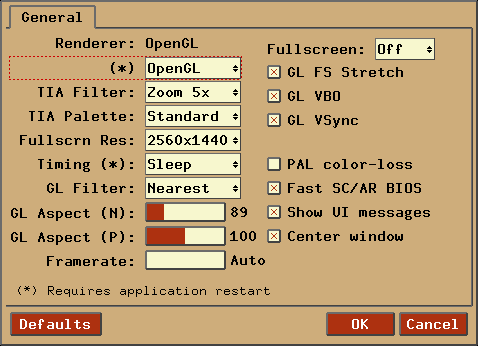
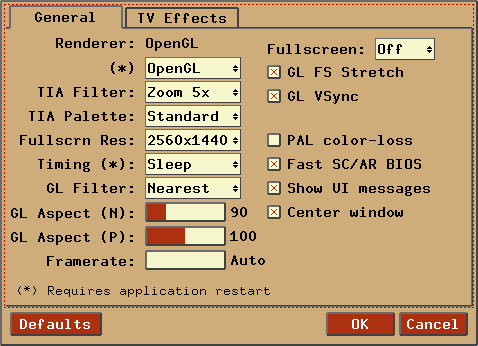
More documentation updates.

diff --git a/docs/index.html b/docs/index.html
@@ -274,7 +274,7 @@
       AtariVox</a> and <a href="http://www.vectrex.biz/MemCard.htm">SaveKey</a> controllers</li>
     <li>Supports all known bankswitching schemes (let us know if there's one we missed)</li>
     <li>Supports DPC+ bankswitching scheme from the <a href="http://harmony.atariage.com">Harmony Cart</a>,
-      including partial emulation of the ARM processor</li>
+      including <a href="http://thumbulator.blogspot.ca">partial emulation of the ARM processor</a></li>
     <li>Supports cartridge autodetection for almost all bankswitching schemes</li>
     <li>Supports Supercharger single-load and multi-load games</li>
     <li>Supports ROMs stored in ZIP and GZIP format, as well as the usual A26/BIN/ROM formats</li>
@@ -285,7 +285,10 @@
       some games</li>
     <li>TIA emulation supports full collision checking, with ability to disable
       both TIA sprites and collisions for each object separately</li>
-    <li>Built-in extensive debugger, including the Distella disassembler</li>
+    <li>Full system state save/load functionality</li>
+    <li>Cross-platform UI including a built-in ROM launcher frontend</li>
+    <li>Built-in extensive debugger, including static analysis with the Distella disassembler,
+      and dynamic analysis at runtime by tracking code/graphics/data sections</li>
     <li>Emulation of CRT TV systems using <a href="http://slack.net/~ant/libs/ntsc.html">
       Blargg filtering</a>, including presets for several common TV outputs
       (composite, S-video, RGB, etc), and ability to fully customize
@@ -313,7 +316,7 @@
     <li>Enough RAM for the OS + 64MB RAM for the emulation; 128MB+ highly recommended</li>
     <li>15/16 bit color minimum; 24/32 bit color graphics card highly recommended</li>
     <li>SDL version 1.2.10 or greater, latest version highly recommended</li>
-    <li>CRT TV emulation effects require OpenGL/OpenGLES 1.2</li>
+    <li>CRT TV emulation effects require OpenGL 1.2/OpenGLES 1 or higher</li>
     <li>Joysticks or gamepads are highly recommended</li>
     <li>Mouse or <a href="http://www.stelladaptor.com">Stelladaptor</a> / 
     <a href="http://2600-daptor.com">2600-adaptor</a> with real paddles required for paddle emulation</li>
@@ -1805,10 +1808,9 @@
     </tr>
 
     <tr>
-      <td><pre>-gl_filter &lt;nearest|linear&gt;</pre></td>
-      <td>OpenGL mode only. Use GL_NEAREST or GL_LINEAR filtering.
-        GL_NEAREST results in a scaled, pixelated image, while
-        GL_LINEAR introduces blurring.</td>
+      <td><pre>-gl_inter &lt;1|0&gt;</pre></td>
+      <td>OpenGL mode only. Use interpolation for the TIA image (results in
+        blending/smoothing of the image).</td>
     </tr>
 
     <tr>
@@ -1821,13 +1823,15 @@
     </tr>
 
     <tr>
-      <td><pre>-gl_fsmax &lt;1|0&gt;</pre></td>
-      <td>OpenGL mode only. Stretch TIA image while in fullscreen mode.</td>
+      <td><pre>-gl_fsscale &lt;1|0&gt;</pre></td>
+      <td>OpenGL mode only. Stretch TIA image completely while in fullscreen mode
+        (vs. an integral stretch which won't necessarily completely fill the screen).</td>
     </tr>
 
     <tr>
       <td><pre>-gl_vbo &lt;1|0&gt;</pre></td>
-      <td>OpenGL mode only.  Use the Vertex Buffer Object extension, if available.  This is enabled by default.</td>
+      <td>OpenGL mode only.  Use the Vertex Buffer Object extension, if available.
+        This is enabled by default.</td>
     </tr>
 
     <tr>
@@ -1837,41 +1841,84 @@
     </tr>
 
     <tr>
-      <td><pre>-ntsc_filter &lt;1|0&gt;</pre></td>
-      <td>OpenGL mode only.  Enables Blargg NTSC filtering.</td>
-    </tr>
-
-<!-- FIXME
-    <tr>
-      <td><pre>-tv_tex &lt;off|normal|stag&gt;</pre></td>
-      <td>OpenGL 2.0 mode only. Enable TV texturing.  The GL_TEXTURE_RECTANGLE
-        extension must be disabled for this to work correctly.</td>
+      <td><pre>-tv_filter &lt;1 - 6&gt;</pre></td>
+      <td>OpenGL mode only.  Blargg TV effects, 0 is disabled, next numbers in
+        sequence represent presets for 'composite', 's-video', 'RGB', 'bad adjust',
+        and 'custom' modes'.</td>
     </tr>
 
     <tr>
-      <td><pre>-tv_bleed &lt;off|low|medium|high&gt;</pre></td>
-      <td>OpenGL 2.0 mode only. Enable TV colour bleed emulation.  A fast
-        video card with at least 128MB RAM is required to use 'high'.
-        The GL_TEXTURE_RECTANGLE extension must be disabled for this to
-        work correctly.</td>
+      <td><pre>-tv_scanlines &lt;0 - 100&gt;</pre></td>
+      <td>OpenGL mode only.  Blargg TV effects scanline intensity, where 0
+        means completely off.</td>
     </tr>
 
     <tr>
-      <td><pre>-tv_noise &lt;off|low|medium|high&gt;</pre></td>
-      <td>OpenGL 2.0 mode only. Enable TV radio frequency noise emulation.
-        A fast video card with at least 128MB RAM is required to use 'high'.
-        The GL_TEXTURE_RECTANGLE extension must be disabled for this to
-        work correctly.</td>
+      <td><pre>-tv_scaninter &lt;1|0&gt;</pre></td>
+      <td>OpenGL mode only.  Blargg TV effects scanline interpolation, resulting
+        in blending/smoothing of the scanlines.</td>
     </tr>
 
     <tr>
-      <td><pre>-tv_phos &lt;1|0&gt;</pre></td>
-      <td>OpenGL 2.0 mode only. Enable phosphor effect of TV image.  This
-        is in addition to the currently emulated software phosphor
-        effect.  The GL_TEXTURE_RECTANGLE extension must be disabled
-        for this to work correctly.</td>
+      <td><pre>-tv_contrast &lt;number&gt;</pre></td>
+      <td>OpenGL mode only.  Blargg TV effects 'contrast'
+        (only available in custom mode, range -1.0 to 1.0).</td>
     </tr>
--->
+
+    <tr>
+      <td><pre>-tv_brightness &lt;number&gt;</pre></td>
+      <td>OpenGL mode only.  Blargg TV effects 'brightness'
+        (only available in custom mode, range -1.0 to 1.0).</td>
+    </tr>
+
+    <tr>
+      <td><pre>-tv_hue &lt;number&gt;</pre></td>
+      <td>OpenGL mode only.  Blargg TV effects 'hue'
+        (only available in custom mode, range -1.0 to 1.0).</td>
+    </tr>
+
+    <tr>
+      <td><pre>-tv_saturation &lt;number&gt;</pre></td>
+      <td>OpenGL mode only.  Blargg TV effects 'saturation'
+        (only available in custom mode, range -1.0 to 1.0).</td>
+    </tr>
+
+    <tr>
+      <td><pre>-tv_gamma &lt;number&gt;</pre></td>
+      <td>OpenGL mode only.  Blargg TV effects 'gamma'
+        (only available in custom mode, range -1.0 to 1.0).</td>
+    </tr>
+
+    <tr>
+      <td><pre>-tv_sharpness &lt;number&gt;</pre></td>
+      <td>OpenGL mode only.  Blargg TV effects 'sharpness'
+        (only available in custom mode, range -1.0 to 1.0).</td>
+    </tr>
+
+    <tr>
+      <td><pre>-tv_resolution &lt;number&gt;</pre></td>
+      <td>OpenGL mode only.  Blargg TV effects 'resolution'
+        (only available in custom mode, range -1.0 to 1.0).</td>
+    </tr>
+
+    <tr>
+      <td><pre>-tv_artifacts &lt;number&gt;</pre></td>
+      <td>OpenGL mode only.  Blargg TV effects 'artifacts'
+        (only available in custom mode, range -1.0 to 1.0).</td>
+    </tr>
+
+    <tr>
+      <td><pre>-tv_fringing &lt;number&gt;</pre></td>
+      <td>OpenGL mode only.  Blargg TV effects 'fringing'
+        (only available in custom mode, range -1.0 to 1.0).</td>
+    </tr>
+
+    <tr>
+      <td><pre>-tv_bleed &lt;number&gt;</pre></td>
+      <td>OpenGL mode only.  Blargg TV effects 'bleed'
+        (only available in custom mode, range -1.0 to 1.0).</td>
+    </tr>
+
     <tr>
       <td><pre>-tia_filter &lt;filter&gt;</pre></td>
       <td>Use the specified filter while in TIA/emulation mode.  Currently,
@@ -2397,7 +2444,7 @@
           <tr><td>GL VBO</td><td>enable OpenGL Vertex Buffer Objects</td><td>-gl_vbo</td></tr>
           <tr><td>GL VSync</td><td>enable OpenGL vertical synchronization</td><td>-gl_vsync</td></tr>
           <tr><td>PAL color-loss</td><td>use PAL color-loss effect</td><td>-colorloss</td></tr>
-          <tr><td>Fast SC/AR BIOS</td><td>Skip progress loading bars for SuperCharger ROMs</td><td>-fastscbios</td></tr>
+          <tr><td>Fast SC/AR BIOS</td><td>skip progress loading bars for SuperCharger ROMs</td><td>-fastscbios</td></tr>
           <tr><td>Show UI messages</td><td>overlay UI messages onscreen</td><td>-uimessages</td></tr>
           <tr><td>Center window</td><td>attempt to center application window</td><td>-center</td></tr>
         </table>
@@ -2405,7 +2452,7 @@
     </tr>
   </table>
   <br>
-<!-- FIXME
+
   <p><b>Video Settings</b> dialog (TV Effects):</p>
   <table border="5" cellpadding="2" frame="box" rules="none">
     <tr>
@@ -2414,16 +2461,21 @@
       <td valign="top">
         <table border="1" cellpadding="4">
           <tr><th>Item</th><th>Brief description</th><th>For more information,<br>see <a href="#CommandLine">CommandLine</a></th></tr>
-          <tr><td>TV Color Texture</td><td>emulate TV pixel texturing</td><td>-tv_tex</td></tr>
-          <tr><td>TV Color Bleed</td><td>emulate TV color bleed</td><td>-tv_bleed</td></tr>
-          <tr><td>TV Image Noise</td><td>emulate TV RF image noise</td><td>-tv_noise</td></tr>
-          <tr><td>TV Phosphor Burn-off</td><td>emulate TV phosphor mixing</td><td>-tv_phos</td></tr>
+          <tr><td>TV Mode</td><td>disable TV effects, or select TV preset</td><td>-tv_filter</td></tr>
+          <tr><td>Scanline Intensity</td><td>sets scanline black-level intensity</td><td>-tv_scanlines</td></tr>
+          <tr><td>Scanline Interpolation</td><td>smooth/blend scanlines into image</td><td>-tv_scaninter</td></tr>
+          <tr><td>Adjustable sliders</td><td>set specific attribute in 'Custom' mode</td><td>-tv_contrast, tv_hue, etc.</td></tr>
+          <tr><td>Clone Composite</td><td>copy 'Composite' attributes to 'Custom' sliders</td><td>&nbsp;</td></tr>
+          <tr><td>Clone S-Video</td><td>copy 'S-Video' attributes to 'Custom' sliders</td><td>&nbsp;</td></tr>
+          <tr><td>Clone RGB</td><td>copy 'RGB' attributes to 'Custom' sliders</td><td>&nbsp;</td></tr>
+          <tr><td>Clone Bad Adjust</td><td>copy 'Bad Adjust' attributes to 'Custom' sliders</td><td>&nbsp;</td></tr>
+          <tr><td>Revert</td><td>revert attribute sliders to saved 'Custom' settings</td><td>&nbsp;</td></tr>
         </table>
       </td>
     </tr>
   </table>
   <br>
--->
+
   <p><b>Audio Settings</b> dialog:</p>
   <table border="5" cellpadding="2" frame="box" rules="none">
     <tr>
@@ -2772,7 +2824,8 @@
     <li>Any other devices will be ignored.</li>
 
     <li>The assignment ordering of Stelladaptor/2600-daptor to port can be redefined with
-    'saport' (see description in 'Starting a Game').</li>
+    'saport' (see description in 'Starting a Game') and dynamically with the 'Control-1' key
+    combo.</li>
   </ul>
   </blockquote>
 
@@ -3205,7 +3258,7 @@ Ms Pac-Man (Stella extended codes):
         <tr><td>F8 </td><td>8K Atari </td></tr>
         <tr><td>F8SC </td><td>8K Atari + ram </td></tr>
         <tr><td>FA </td><td>CBS RAM Plus </td></tr>
-        <tr><td>FA2 </td><td>CBS RAM Plus 24K </td></tr>
+        <tr><td>FA2 </td><td>CBS RAM Plus 24/28K </td></tr>
         <tr><td>FE </td><td>8K Decathlon </td></tr>
         <tr><td>MC &#185;&#178;</td><td>C. Wilkson Megacart </td></tr>
         <tr><td>SB </td><td>128-256k SUPERbanking </td></tr>
@@ -3291,6 +3344,8 @@ Ms Pac-Man (Stella extended codes):
         <tr><td>3 </td><td>Paddle 3</td></tr>
         <tr><td>4 </td><td>Driving 0</td></tr>
         <tr><td>5 </td><td>Driving 1</td></tr>
+        <tr><td>6 </td><td>MindLink 0</td></tr>
+        <tr><td>7 </td><td>MindLink 1</td></tr>
       </table></td>
     </tr>
 
@@ -3446,7 +3501,7 @@ Ms Pac-Man (Stella extended codes):
   received over the years.  A (likely incomplete) list of the people who have
   played a part in bringing Stella to you is available on the main Stella 
   webpage <a href="http://stella.sf.net/credits.php">Credits List</a>.
-  If I've missed someone, please let us know.</p>
+  If we've missed someone, please let us know.</p>
 
 
 <!-- /////////////////////////////////////////////////////////////////////////  -->
